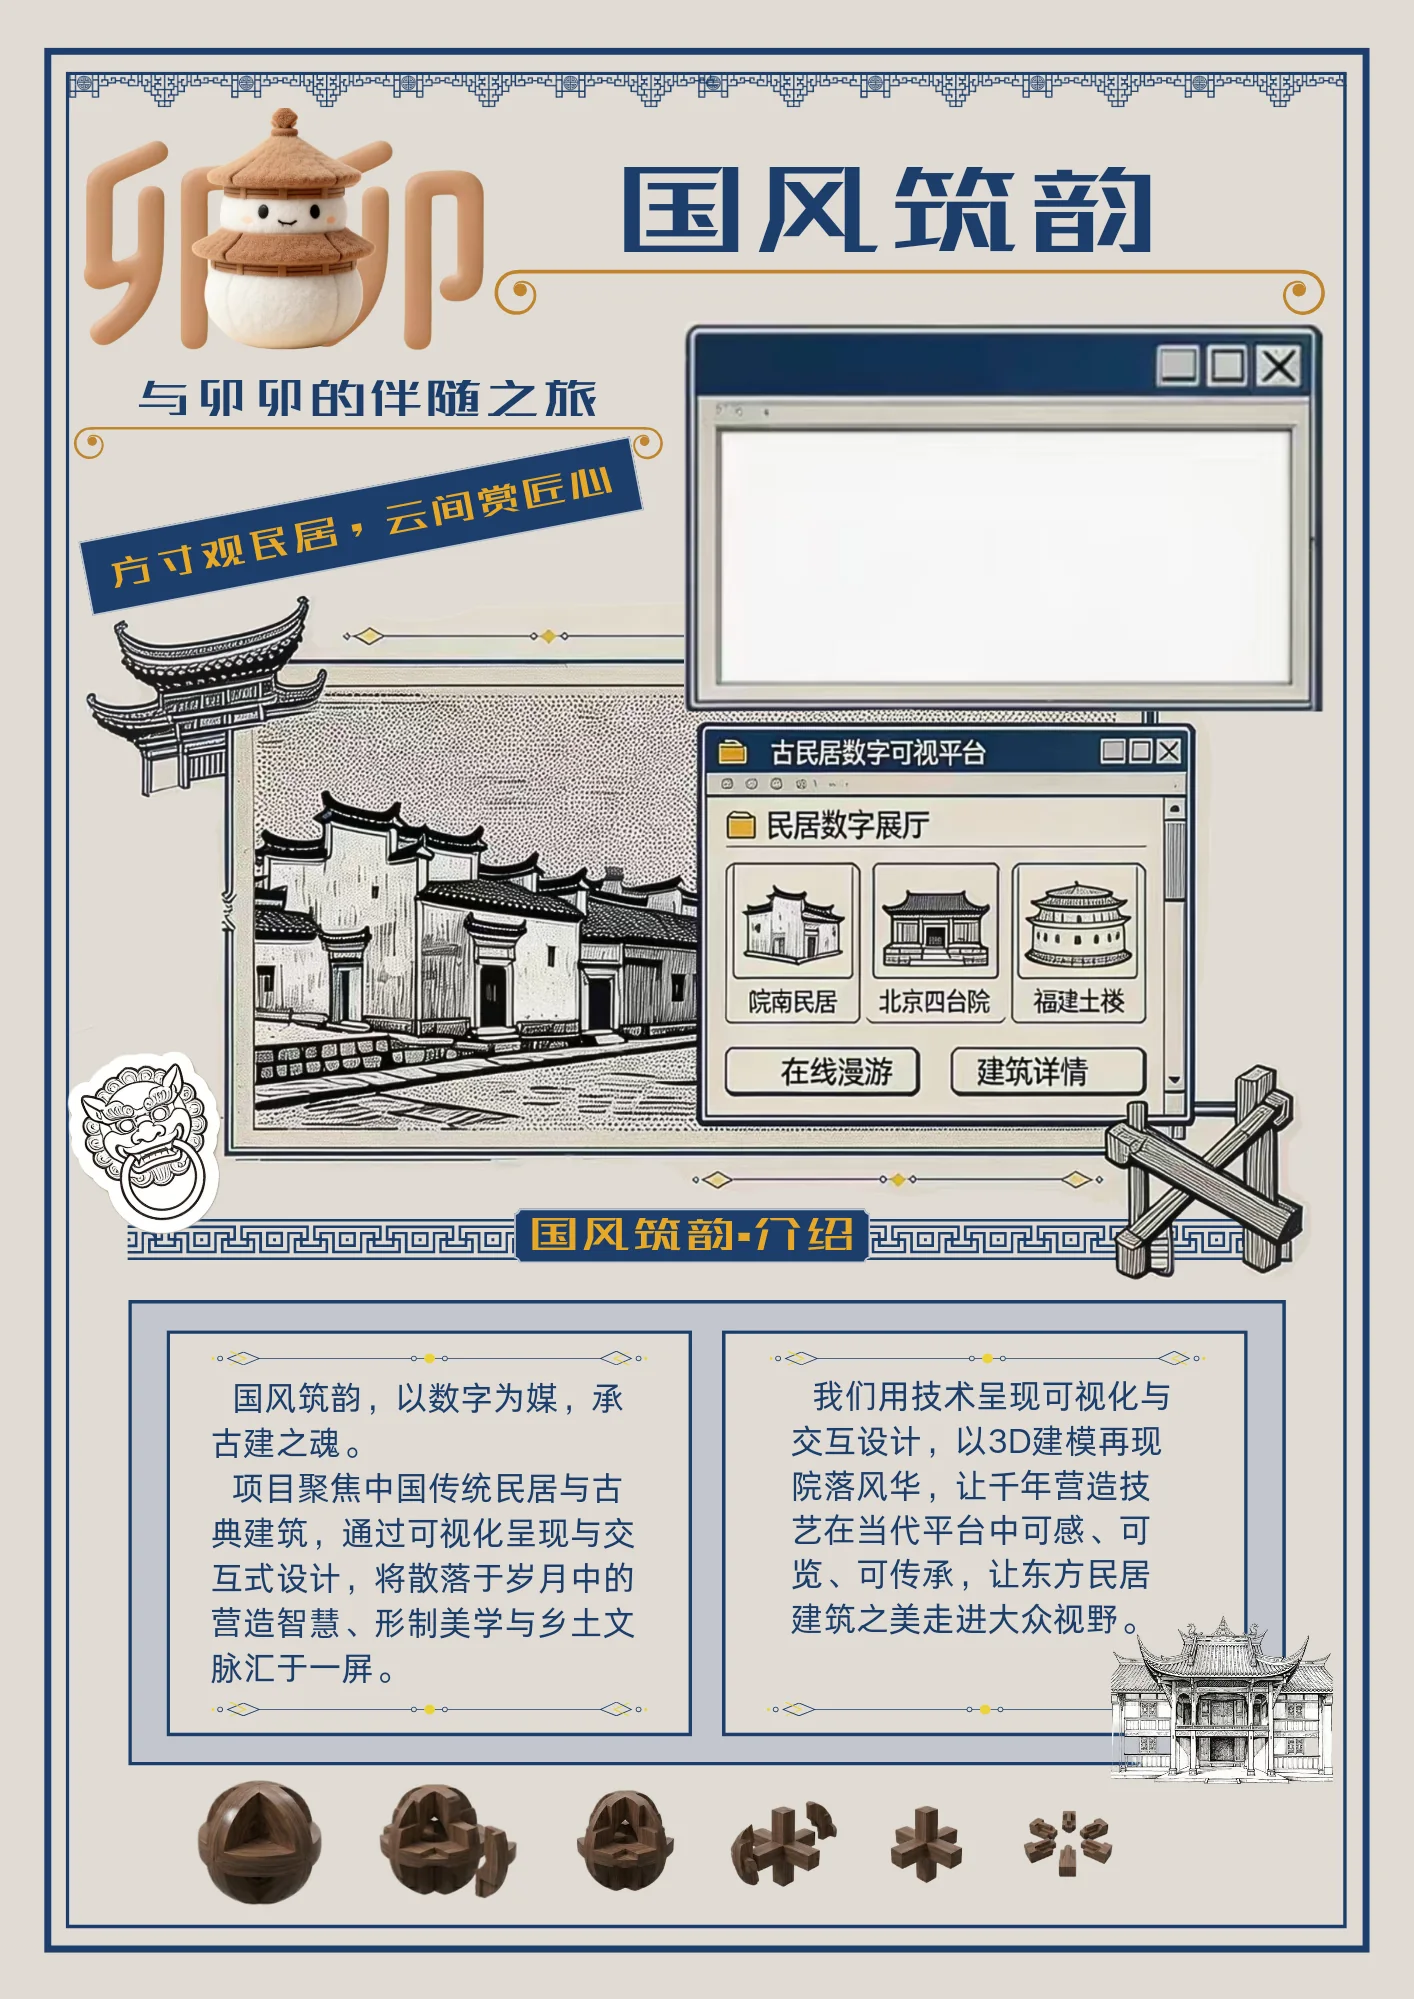
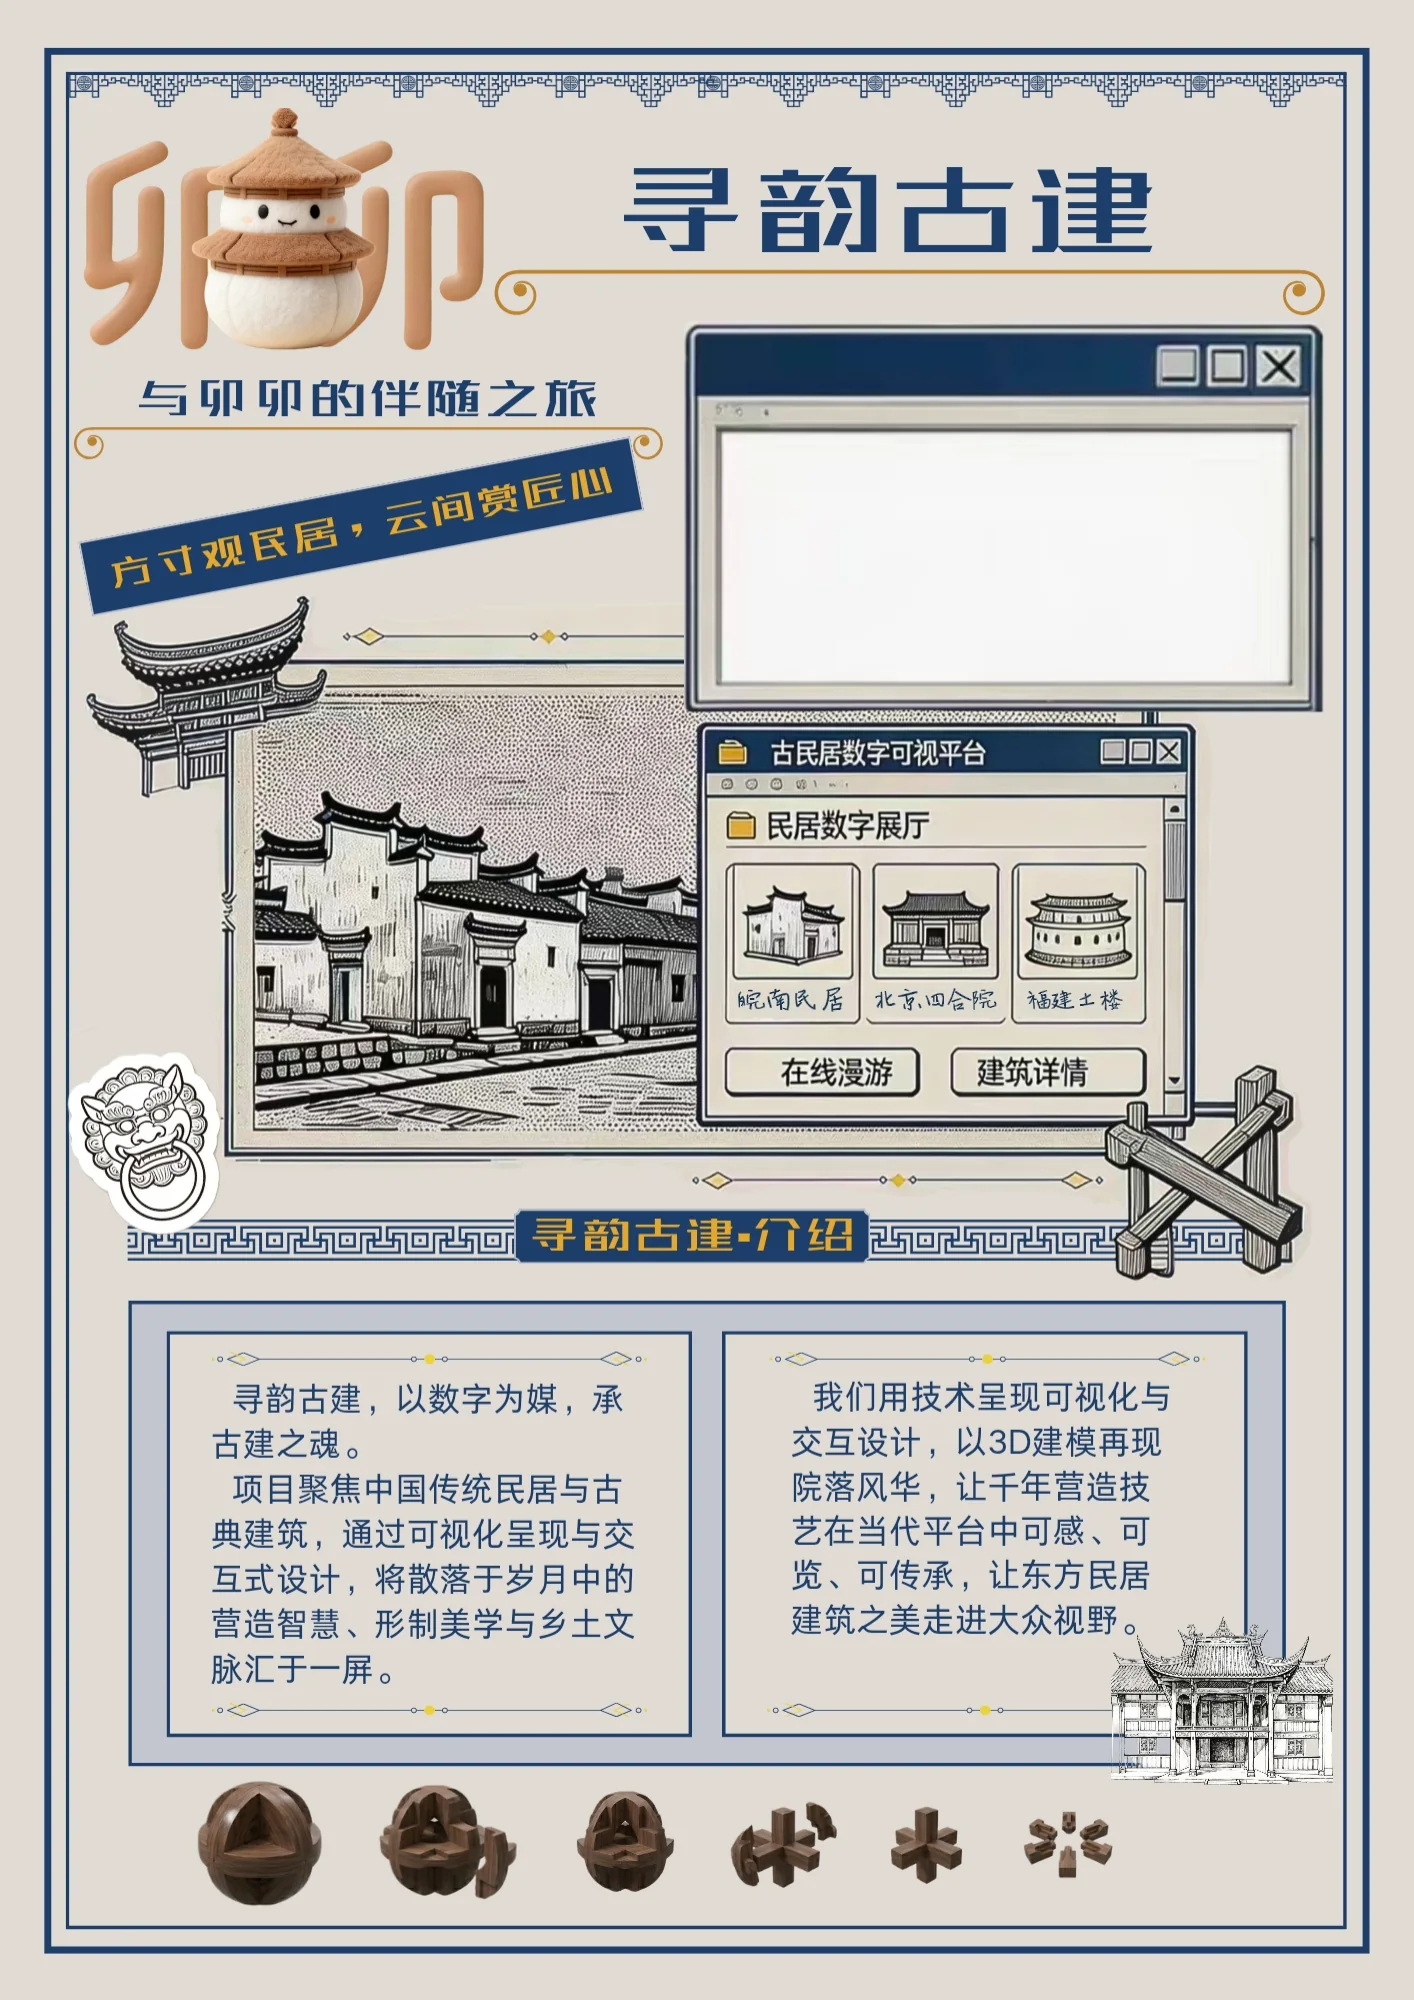
同步参考库图片更新
同步参考库最终版一封信和收藏报纸图片，并更新部署用 WebP 与缓存版本号。

diff --git a/周边文创.html b/周边文创.html
@@ -1235,7 +1235,7 @@
                         <div class="newspaper-container">
                             <!-- 左侧报纸区域 -->
                             <div class="newspaper-section">
-                                <img src="收藏报纸.webp?v=1" alt="收藏报纸" class="newspaper-image">
+                                <img src="收藏报纸.webp?v=20261007" alt="收藏报纸" class="newspaper-image">
                             </div>
                             
                             <!-- 右侧摄像头区域 -->
@@ -1314,7 +1314,7 @@
                     </div>
                 </div>
                 <div class="letter-image">
-                    <img src="一封信.jpg" alt="一封信">
+                    <img src="一封信.jpg?v=20261007" alt="一封信">
                 </div>
             </div>
             
